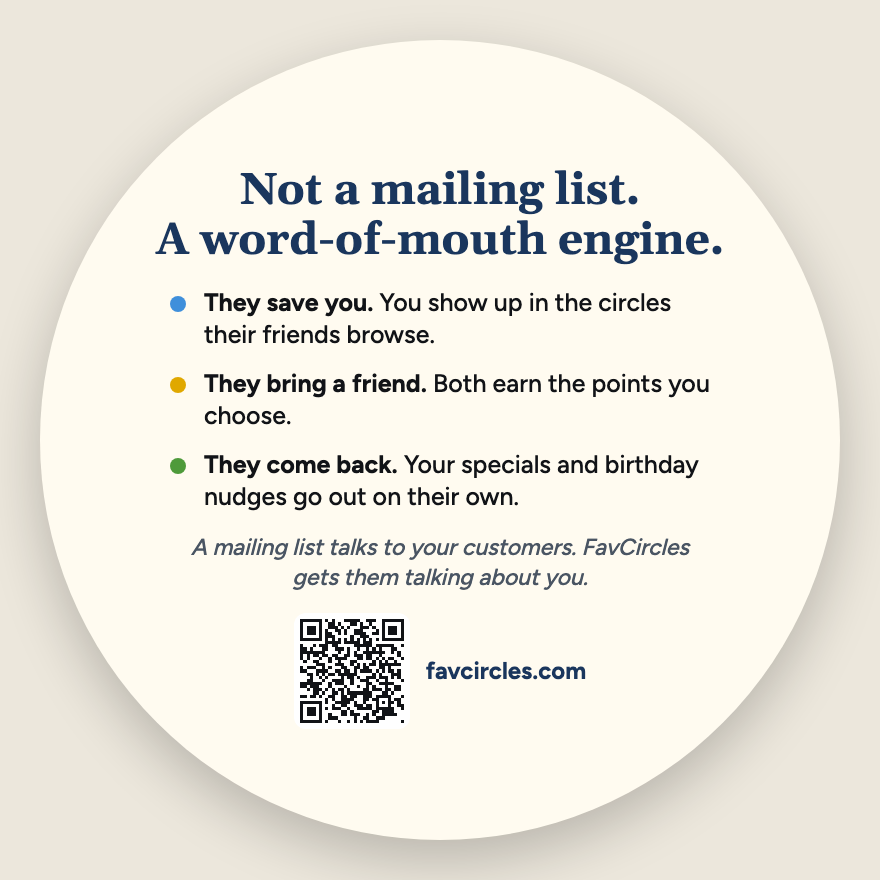
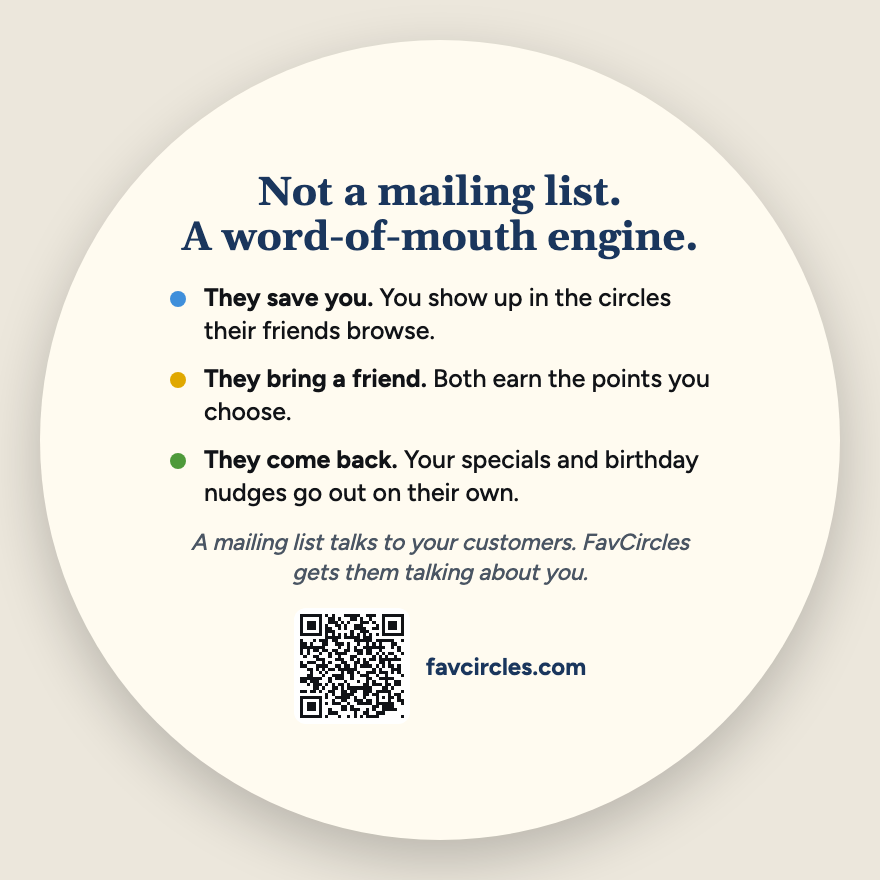
Store-owner leave-behinds: tip jar shine behind the label, coaster back headline fits the circle

Changed region(s): [[0.1841, 0.1841, 0.8284, 0.8284], [0.4909, 0.7364, 0.675, 0.7977]]

diff --git a/Marketing/store-owner-leave-behinds/source/6-tip-jar.html b/Marketing/store-owner-leave-behinds/source/6-tip-jar.html
@@ -1,4 +1,4 @@
-<!doctype html><html><head><meta charset="utf-8"><title>Tip jar</title>
+<!doctype html><html><head><meta charset="utf-8">
 <link href="https://fonts.googleapis.com/css2?family=Gelasio:wght@700&amp;family=Figtree:wght@500;600;700&amp;display=swap" rel="stylesheet">
 <style>
 body{margin:0}
@@ -12,7 +12,7 @@ a{color:#1A365D}a:hover{color:#111317}
 <div style="width: 170px; height: 14px; background: #D9E4EA; opacity: 0.9"></div>
 <div style="width: 270px; height: 330px; background: #D9E4EA; border-radius: 22px 22px 40px 40px; box-shadow: inset 0 0 0 3px rgba(255,255,255,0.7), 0 12px 24px rgba(0,0,0,0.18); display: flex; align-items: center; justify-content: center; position: relative">
 <div style="position: absolute; left: 22px; top: 20px; width: 14px; height: 250px; border-radius: 10px; background: #ffffff; opacity: 0.55"></div>
-<div style="width: 214px; background: #111317; border-radius: 8px; padding: 18px 16px; box-sizing: border-box; display: flex; flex-direction: column; align-items: center; gap: 8px; text-align: center">
+<div style="position: relative; width: 214px; background: #111317; border-radius: 8px; padding: 18px 16px; box-sizing: border-box; display: flex; flex-direction: column; align-items: center; gap: 8px; text-align: center">
 <div style="font-size: 10px; letter-spacing: 3px; color: #F6C945; font-weight: 700">TIPS</div>
 <div style="font-family: 'Gelasio', Georgia, serif; font-weight: 700; color: #ffffff; font-size: 21px; line-height: 1.12">The best tip a customer can leave?</div>
 <div style="font-family: 'Gelasio', Georgia, serif; font-weight: 700; color: #F6C945; font-size: 21px; line-height: 1.12">Telling a friend.</div>

diff --git a/Marketing/store-owner-leave-behinds/source/1-coaster-back.html b/Marketing/store-owner-leave-behinds/source/1-coaster-back.html
@@ -1,4 +1,4 @@
-<!doctype html><html><head><meta charset="utf-8"><title>Coaster back</title>
+<!doctype html><html><head><meta charset="utf-8">
 <link href="https://fonts.googleapis.com/css2?family=Gelasio:wght@700&amp;family=Figtree:wght@500;600;700&amp;display=swap" rel="stylesheet">
 <style>
 body{margin:0}
@@ -8,7 +8,7 @@ a{color:#1A365D}a:hover{color:#111317}
 
 <div style="width: 440px; height: 440px; background: #ECE7DC; display: flex; align-items: center; justify-content: center; font-family: 'Figtree', 'Avenir Next', sans-serif">
 <div style="width: 400px; height: 400px; border-radius: 50%; background: #FFFBF0; position: relative; display: flex; flex-direction: column; align-items: center; justify-content: center; gap: 10px; box-shadow: 0 10px 28px rgba(0,0,0,0.22)">
-<div style="font-family: 'Gelasio', Georgia, serif; font-weight: 700; font-size: 22px; color: #1A365D; text-align: center; line-height: 1.12; margin-top: 8px">Not a mailing list.<br>A word-of-mouth engine.</div>
+<div style="font-family: 'Gelasio', Georgia, serif; font-weight: 700; font-size: 20px; color: #1A365D; text-align: center; line-height: 1.12; margin-top: 8px">Not a mailing list.<br>A word-of-mouth engine.</div>
 <div style="display: flex; flex-direction: column; gap: 8px; width: 270px">
 <div style="display: flex; gap: 9px; align-items: flex-start">
 <div style="flex: 0 0 8px; height: 8px; border-radius: 50%; background: #3F8FDB; margin-top: 5px"></div>
